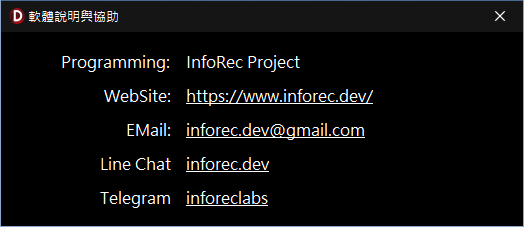
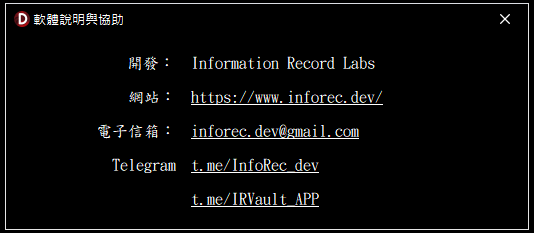
InfoRec 聯絡資訊：換新截圖（拿掉 LINE、兩個 Telegram 群組），說明頁補 IRVault 群組

diff --git a/InfoRec/FormContactInfo.html b/InfoRec/FormContactInfo.html
@@ -21,7 +21,7 @@
     <li>「Programming」：本軟體智慧財產權（著作權）由創作人依法授權行使。</li>
     <li>「WebSite」：本專案網頁暨專案下載頁面為 <a href="https://www.inforec.dev/InfoRec/" target="_blank">https://www.inforec.dev/InfoRec/</a>，提供既有版本更新之衍生下載權益說明。</li>
     <li>「EMail」：聯絡信箱為 <a href="mailto:inforec.dev@gmail.com">inforec.dev@gmail.com</a>，接收建議反饋服務。</li>
-    <li>「Telegram」：社群協力平台 <a href="https://t.me/InfoRec_dev" target="_blank" rel="noopener">InfoRec 群組</a>，供使用者進行使用經驗分享與互助。</li>
+    <li>「Telegram」：社群協力平台 <a href="https://t.me/InfoRec_dev" target="_blank" rel="noopener">InfoRec 群組</a>，供使用者進行使用經驗分享與互助；<a href="https://t.me/IRVault_APP" target="_blank" rel="noopener">IRVault 群組</a>，虛擬資產管理與 InfoRec 註冊。</li>
   </ul>
 
   <figure>
